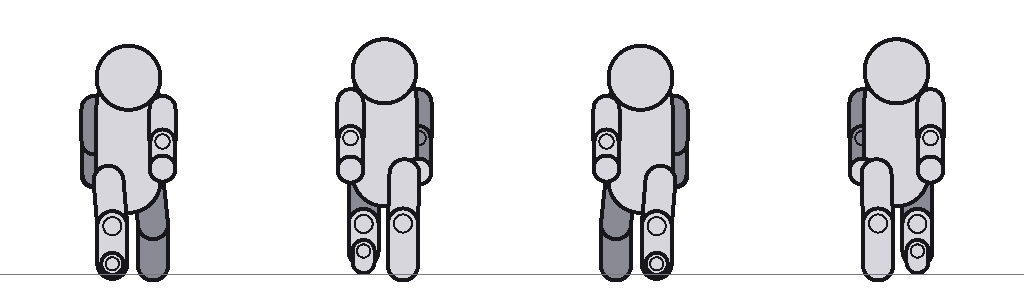
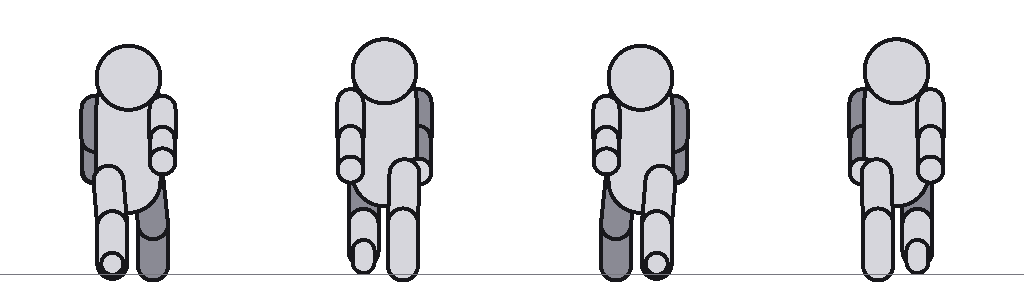
fix(mannequin): retire les rotules, dégage le bras arrière du torse
Deux remarques du PO sur le gabarit.

« Je ne comprends pas tous les ronds » : les rotules étaient devenues
redondantes depuis que chaque os porte son contour — le pli se lit désormais au
changement d'angle des deux segments. Elles se confondaient en plus avec les
mains, qui sont des ronds elles aussi. Supprimées, code et test compris.

« Les bras ne bougent pas bien » : le mouvement existait — 59 px d'écart entre
les mains aux contacts, mesuré, contre 93 pour les pieds — mais le torse le
cachait. Un tronc est large de face et mince de profil ; une capsule unique ne
peut pas faire les deux, et au rayon de face le torse avalait le bras arrière.
Le rayon dépend maintenant de la vue, et l'amplitude du bras passe de 25 à 34
degrés aux contacts.

diff --git a/src/artprep/mannequin.ts b/src/artprep/mannequin.ts
@@ -23,6 +23,15 @@ export const GROUND_PAD: number = 14;
 /** Épaisseur des membres, en pixels de rayon. */
 const LIMB_R: number = 13;
 const TORSO_R: number = 30;
+/**
+ * Demi-épaisseur du torse vu de PROFIL.
+ *
+ * Un tronc est large de face et mince de profil ; une capsule unique ne peut pas
+ * faire les deux. Au rayon de face, le torse avalait le bras arrière et on ne
+ * voyait plus qu un bras balancer — le PO a lu ça comme « les bras ne bougent
+ * pas bien », et il avait raison : le mouvement existait, le torse le cachait.
+ */
+const TORSO_R_SIDE: number = 22;
 const OUTLINE: number = 4;
 /** Rayon du nez. Assez fin pour rester un REPÈRE : plus épais, il se lisait de
  *  face comme un œil unique au milieu du visage, et le générateur pouvait le
@@ -81,14 +90,12 @@ export interface Bone {
   b: Projected;
   r: number;
   depth: number;
-  /** Dessiner une rotule à l extrémité `a` : le point où ce membre plie. */
-  joint?: boolean;
 }
 
-function bone(from: Vec3, to: Vec3, view: View, r: number, ox: number, oy: number, joint: boolean = false): Bone {
+function bone(from: Vec3, to: Vec3, view: View, r: number, ox: number, oy: number): Bone {
   const a: Projected = place(project(from, view), ox, oy);
   const b: Projected = place(project(to, view), ox, oy);
-  return { a, b, r, depth: (a.depth + b.depth) / 2, joint };
+  return { a, b, r, depth: (a.depth + b.depth) / 2 };
 }
 
 /** Passe du repère du squelette (y vers le haut, sol à 0) à celui de l'image. */
@@ -116,13 +123,6 @@ export function paintBones(img: Rgba, bones: readonly Bone[]): void {
     const fill: readonly [number, number, number] = b.depth < -0.5 ? FAR : NEAR;
     capsule(img, b.a, b.b, b.r + OUTLINE, INK);
     capsule(img, b.a, b.b, b.r, fill);
-    // Rotule à l'extrémité proximale : c'est elle qui montre OÙ le membre plie.
-    // Sans elle, une cuisse et son tibia forment un trait continu dont l'angle
-    // se devine plutôt qu'il ne se voit.
-    if (b.joint) {
-      capsule(img, b.a, b.a, b.r * 0.62 + 2, INK);
-      capsule(img, b.a, b.a, b.r * 0.62, fill);
-    }
   }
 }
 
@@ -135,21 +135,17 @@ export function paintBones(img: Rgba, bones: readonly Bone[]): void {
  * fausses une pose sur deux.
  */
 export function drawPose(img: Rgba, j: Joints, view: View, ox: number, oy: number): void {
-  // `joint` sur le segment DISTAL de chaque membre : la rotule se dessine à son
-  // extrémité proximale, c'est-à-dire au genou et au coude. La marquer sur le
-  // segment proximal la placerait à la hanche et à l'épaule, où rien ne plie de
-  // façon lisible.
   const bones: Bone[] = [
     bone(j.hip[0], j.knee[0], view, LIMB_R, ox, oy),
-    bone(j.knee[0], j.foot[0], view, LIMB_R, ox, oy, true),
-    bone(j.foot[0], j.toe[0], view, FOOT_R, ox, oy, true),
+    bone(j.knee[0], j.foot[0], view, LIMB_R, ox, oy),
+    bone(j.foot[0], j.toe[0], view, FOOT_R, ox, oy),
     bone(j.hip[1], j.knee[1], view, LIMB_R, ox, oy),
-    bone(j.knee[1], j.foot[1], view, LIMB_R, ox, oy, true),
-    bone(j.foot[1], j.toe[1], view, FOOT_R, ox, oy, true),
+    bone(j.knee[1], j.foot[1], view, LIMB_R, ox, oy),
+    bone(j.foot[1], j.toe[1], view, FOOT_R, ox, oy),
     bone(j.shoulder[0], j.elbow[0], view, LIMB_R - 2, ox, oy),
-    bone(j.elbow[0], j.hand[0], view, LIMB_R - 3, ox, oy, true),
+    bone(j.elbow[0], j.hand[0], view, LIMB_R - 3, ox, oy),
     bone(j.shoulder[1], j.elbow[1], view, LIMB_R - 2, ox, oy),
-    bone(j.elbow[1], j.hand[1], view, LIMB_R - 3, ox, oy, true),
+    bone(j.elbow[1], j.hand[1], view, LIMB_R - 3, ox, oy),
   ];
   // Mains : une boule au bout de l'avant-bras. Sans elle, le bras s'arrête net
   // et le générateur n'a aucune raison d'y dessiner une main — or c'est là que
@@ -158,7 +154,7 @@ export function drawPose(img: Rgba, j: Joints, view: View, ox: number, oy: numbe
     const h: Bone = bone(j.hand[i]!, j.hand[i]!, view, LIMB_R - 2, ox, oy);
     return h;
   });
-  const torso: Bone = bone(j.pelvis, j.neck, view, TORSO_R, ox, oy);
+  const torso: Bone = bone(j.pelvis, j.neck, view, view === "side" ? TORSO_R_SIDE : TORSO_R, ox, oy);
   const head: Bone = bone(j.head, j.head, view, HEAD_R, ox, oy);
   // Le nez part du centre de la tête : sa moitié arrière est donc toujours
   // enfouie dans le crâne, et seule la pointe dépasse — de face au centre du

diff --git a/src/artprep/pose.ts b/src/artprep/pose.ts
@@ -103,9 +103,9 @@ interface Side {
  * relève pas sur une image fixe.
  */
 const LEFT: readonly Side[] = [
-  { thigh: 30, knee: 4, arm: -25, elbow: 12, lift: false },   // contact, jambe gauche devant
+  { thigh: 30, knee: 4, arm: -34, elbow: 14, lift: false },   // contact, jambe gauche devant
   { thigh: -10, knee: 14, arm: 6, elbow: 16, lift: false },   // appui, la gauche pousse
-  { thigh: -25, knee: 10, arm: 25, elbow: 12, lift: false },  // contact inverse, gauche derrière
+  { thigh: -25, knee: 10, arm: 34, elbow: 14, lift: false },  // contact inverse, gauche derrière
   { thigh: 6, knee: 60, arm: -6, elbow: 16, lift: true },     // passage, la gauche remonte
 ];
 

diff --git a/src/artprep/mannequin.test.ts b/src/artprep/mannequin.test.ts
@@ -162,12 +162,4 @@ describe("paintBones — le contour survit au voisin", () => {
     expect(inkBetween(img, 50, 35, 45)).toBe(0);
   });
 
-  it("dessine une rotule là où le membre plie", () => {
-    const plain: Rgba = blank(120, 100);
-    const jointed: Rgba = blank(120, 100);
-    const b: Bone = { a: { x: 60, y: 20, depth: 0 }, b: { x: 60, y: 80, depth: 0 }, r: 14, depth: 0 };
-    paintBones(plain, [b]);
-    paintBones(jointed, [{ ...b, joint: true }]);
-    expect(inkBetween(jointed, 20, 50, 70)).toBeGreaterThan(inkBetween(plain, 20, 50, 70));
-  });
 });
